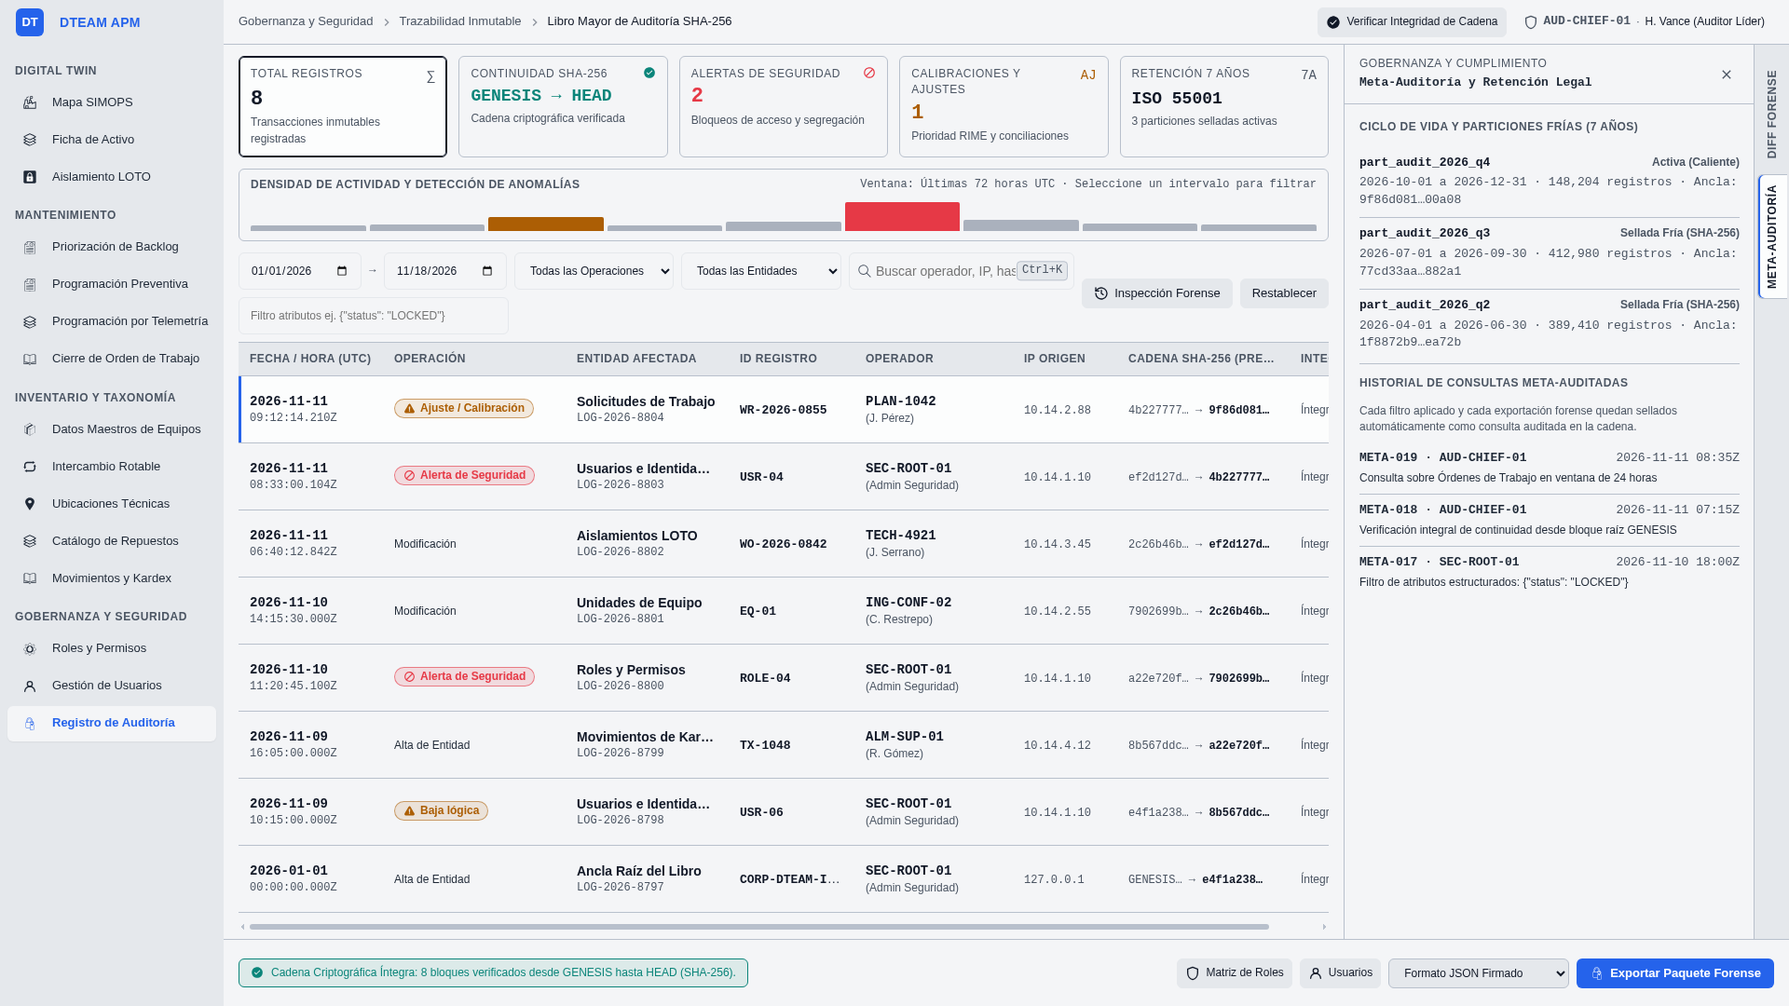
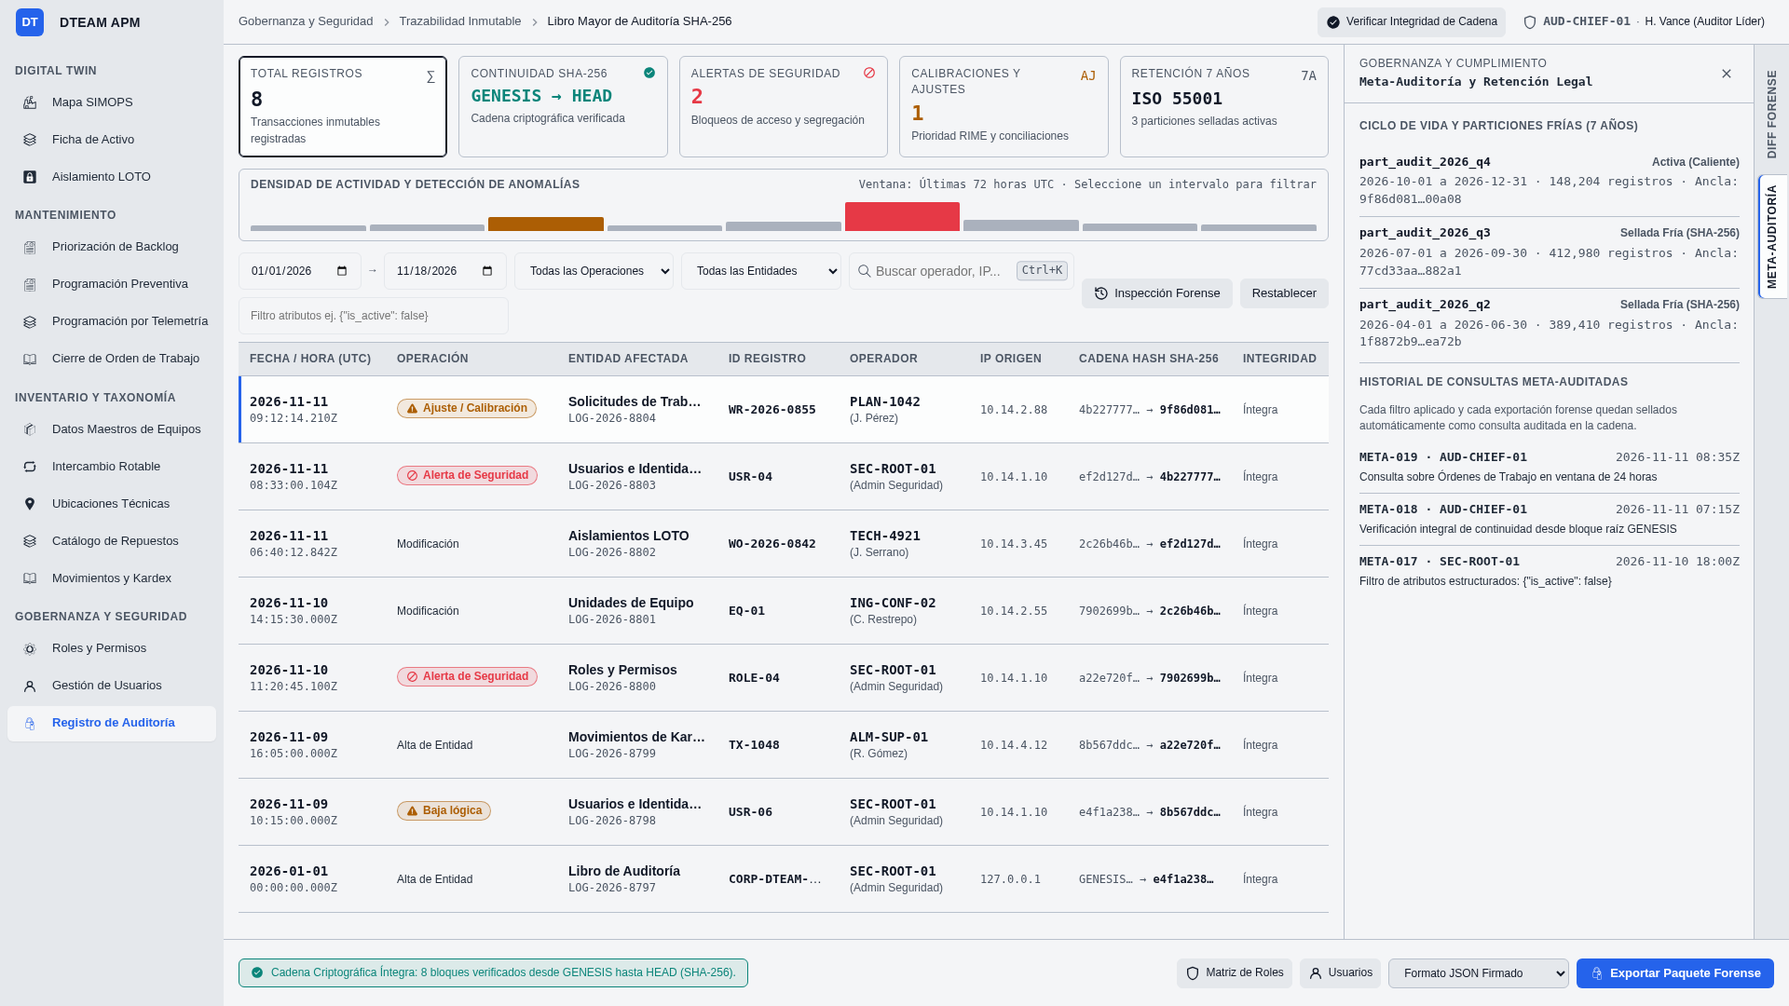
docs(erd,dm,arq): align canonical enum column names and document §3.11 heuristics

diff --git a/scripts/generate_ddl.py b/scripts/generate_ddl.py
@@ -6,9 +6,6 @@ from pathlib import Path
 ROOT = Path(__file__).resolve().parents[1]
 
 ENUM_ALIASES = {
-    "work_requests.work_class": "work_requests.work_class_code",
-    "work_order_assignments.assigned_role": "work_order_assignments.role_in_work",
-    "audit_logs.event_type": "audit_logs.action_type",
     "maintenance_plan_crafts.craft": "maintenance_plans.required_specialty",
 }
 
@@ -18,6 +15,10 @@ EXPLICIT_FK_TARGETS = {
     "subunit_id": "subunits",
     "maintainable_item_id": "maintainable_items",
     "equipment_class_id": "equipment_classes",
+}
+
+PARTITIONED_TABLES = {
+    "adm.audit_logs": "timestamp",
 }
 
 
@@ -224,9 +225,15 @@ def parse_erd(
                     )
 
                 if "UNIQUE" in c["constraints"]:
-                    constraints.append(
-                        f"    CONSTRAINT uq_{raw_table}_{c['field']} UNIQUE ({c['field']})"
-                    )
+                    part_col = PARTITIONED_TABLES.get(table_name)
+                    if part_col and c["field"] != part_col:
+                        constraints.append(
+                            f"    CONSTRAINT uq_{raw_table}_{c['field']} UNIQUE ({c['field']}, {part_col})"
+                        )
+                    else:
+                        constraints.append(
+                            f"    CONSTRAINT uq_{raw_table}_{c['field']} UNIQUE ({c['field']})"
+                        )
 
                 if "CHECK" in c["constraints"]:
                     enum_key_specific = f"{raw_table}.{c['field']}"
@@ -315,7 +322,11 @@ def parse_erd(
             sql += ",\n".join(col_defs)
             if constraints:
                 sql += ",\n\n" + ",\n".join(constraints)
-            sql += "\n);\n\n"
+            part_col = PARTITIONED_TABLES.get(table_name)
+            if part_col:
+                sql += f"\n) PARTITION BY RANGE ({part_col});\n\n"
+            else:
+                sql += "\n);\n\n"
             if include_comments:
                 sql += "\n".join(comments) + "\n\n"
 

diff --git a/domain-models/entity-relationship/DT-ERD-DOC-001.md b/domain-models/entity-relationship/DT-ERD-DOC-001.md
@@ -222,7 +222,7 @@ All tables and columns follow the `snake_case` naming standard. The database is 
 | request_date | TIMESTAMPTZ | NOT NULL | | clock_timestamp() | UTC timeline for audit. |
 | request_source | VARCHAR(80) | NOT NULL | | - | Origin of the request. |
 | status | VARCHAR(20) | NOT NULL | CHECK | - | Request lifecycle status. |
-| work_class | SMALLINT | NOT NULL | CHECK | - | Numeric weight (1..10) of the selected work class for RIME. |
+| work_class_code | SMALLINT | NOT NULL | CHECK | - | Numeric weight (1..10) of the selected work class for RIME (`WorkRequest.workClassCode`, DT-DM-DOC-001 §4.24). |
 
 #### 3.2.8 maintenance_plan_crafts
 
@@ -410,18 +410,18 @@ All tables and columns follow the `snake_case` naming standard. The database is 
 
 | Physical Field | PostgreSQL Type | Nullability | Constraints / Keys | Default Value | Justification |
 | --- | --- | --- | --- | --- | --- |
-| id | UUID | NOT NULL | PK | uuidv7() | Unique identifier of the entity (PK). |
+| id | UUID | NOT NULL | PK | uuidv7() | Unique identifier of the entity (composite PK `(id, timestamp)` for PostgreSQL 18 declarative range partitioning per FR-350). |
 | user_id | UUID | NULL | FK | NULL | Foreign key to the related table. |
-| event_type | VARCHAR(80) | NOT NULL | CHECK | - | Controlled audit operation type (CREATE, UPDATE, DELETE, QUERY, ADJUST, SECURITY_ALERT). |
+| action_type | VARCHAR(80) | NOT NULL | CHECK | - | Controlled audit operation type (`AuditLog.actionType`, DT-DM-DOC-001 §4.36: CREATE, UPDATE, DELETE, QUERY, ADJUST, SECURITY_ALERT). |
 | entity_type | VARCHAR(80) | NOT NULL | | - | Affected table or domain entity. |
 | entity_id | UUID | NOT NULL | | - | Identifier of the affected record. |
-| timestamp | TIMESTAMPTZ | NOT NULL | | clock_timestamp() | Exact UTC moment of the mutation. |
+| timestamp | TIMESTAMPTZ | NOT NULL | PK | clock_timestamp() | Exact UTC moment of the mutation and range-partitioning key (composite PK `(id, timestamp)`, FR-350). |
 | previous_state | JSONB | NULL | | NULL | Pre-mutation entity state snapshot captured via `RETURNING old.*` ([§6.7](#67-admaudit_logsprevious_state-and-new_state), ADR-003). |
 | new_state | JSONB | NULL | | NULL | Post-mutation state snapshot, `QUERY` meta-audit payload, or `SECURITY_ALERT` context including transversal `justification` ([§6.7](#67-admaudit_logsprevious_state-and-new_state), ADR-003). |
 | ip_address | VARCHAR(45) | NULL | | NULL | Network traceability (IPv4 or IPv6). |
 | user_agent | VARCHAR(255) | NULL | | NULL | Client traceability. |
 | previous_hash | VARCHAR(64) | NOT NULL | | - | SHA-256 integrity hash of the preceding audit record (`GENESIS` sentinel on first entry, ADR-003). |
-| integrity_hash | VARCHAR(64) | NOT NULL | UNIQUE | - | SHA-256 cryptographic hash chaining `previous_hash` and current payload (ADR-003). |
+| integrity_hash | VARCHAR(64) | NOT NULL | UNIQUE | - | SHA-256 cryptographic hash chaining `previous_hash` and current payload (ADR-003; composite unique `(integrity_hash, timestamp)` on partitioned table). |
 
 #### 3.5.2 auth_tokens
 
@@ -479,7 +479,7 @@ All tables and columns follow the `snake_case` naming standard. The database is 
 | --- | --- | --- | --- | --- | --- |
 | work_order_id | UUID | NOT NULL | PK, FK | - | Foreign key to the related table. |
 | user_id | UUID | NOT NULL | PK, FK | - | Foreign key to the related table. |
-| assigned_role | VARCHAR(80) | NOT NULL | CHECK | - | Operational role of the technician in the specific WO. |
+| role_in_work | VARCHAR(80) | NOT NULL | CHECK | - | Operational role of the technician in the specific WO (`WorkOrderAssignment.roleInWork`, DT-DM-DOC-001 §4.41). |
 | assigned_at | TIMESTAMPTZ | NOT NULL | | clock_timestamp() | UTC moment of assignment. |
 
 #### 3.5.8 idempotency_logs
@@ -492,6 +492,20 @@ All tables and columns follow the `snake_case` naming standard. The database is 
 | request_hash | VARCHAR(64) | NOT NULL | | - | SHA-256 fingerprint to prevent payload mutation. |
 | status | VARCHAR(20) | NOT NULL | CHECK | - | Controlled state of the transaction (PROCESSING, COMPLETED, FAILED). |
 | created_at | TIMESTAMPTZ | NOT NULL | | clock_timestamp() | UTC partitioning key for MVCC cleanup. |
+
+#### 3.5.9 audit_retention_partitions
+
+| Physical Field | PostgreSQL Type | Nullability | Constraints / Keys | Default Value | Justification |
+| --- | --- | --- | --- | --- | --- |
+| id | UUID | NOT NULL | PK | uuidv7() | Unique identifier of the entity (PK). |
+| partition_name | VARCHAR(80) | NOT NULL | UNIQUE | - | Physical PostgreSQL range partition identifier (e.g., `part_audit_2026_q4`, FR-350). |
+| period_start | DATE | NOT NULL | | - | Inclusive UTC start date of the quarterly retention window (FR-358). |
+| period_end | DATE | NOT NULL | | - | Inclusive UTC end date of the quarterly retention window (FR-358). |
+| record_count | BIGINT | NOT NULL | | 0 | Total immutable audit records sealed inside the retention partition. |
+| partition_anchor_hash | VARCHAR(64) | NOT NULL | | - | Final SHA-256 `integrity_hash` anchoring continuity across archived partition boundaries (ADR-003, FR-350). |
+| is_cold_archived | BOOLEAN | NOT NULL | | FALSE | Flag indicating whether the quarterly partition is sealed in 7-year cold storage (FR-350, FR-358). |
+| integrity_status | VARCHAR(30) | NOT NULL | CHECK | 'VERIFIED_INTACT' | Controlled partition integrity status vocabulary (DT-DM-DOC-001 §4.43). |
+| sealed_at | TIMESTAMPTZ | NULL | | NULL | UTC timestamp when the partition was sealed for cold archival (`NULL` while hot/active). |
 
 ## 4. Referential Relationships and Cascading (FKs)
 

diff --git a/ui-ux/screens/adm/SCR-ADM-032.md b/ui-ux/screens/adm/SCR-ADM-032.md
@@ -90,7 +90,7 @@ status: Stable
    - **Architectural Scope:** Acts as a one-click category filter over the ledger grid and surfaces immediate tamper-evident chain health (`FR-351`, `TR-001-FR-367`). Detailed in §5.1.
 
 4. **`CMP-04`: Multi-Criteria & JSONB Containment Filter Toolbar (`FR-348`)**
-   - **Visual Role:** Flat toolbar hosting UTC `DateFrom` / `DateTo` pickers, `AuditActionType` selector (`CREATE`, `UPDATE`, `DELETE`, `QUERY`, `ADJUST`, `SECURITY_ALERT`), `EntityType` selector (`WorkRequest`, `WorkOrder`, `WorkOrderIsolation`, `EquipmentUnit`, `Role`, `User`, `InventoryTransaction`, `GenesisLedgerAnchor`), debounced search input across `Operator`, `IpAddress`, `EntityId`, and `IntegrityHash` (`Ctrl+K`), structured `JSONB` key-value containment query input (`{"status": "LOCKED"}`), `[Forensic Inspection]` dock toggle, and `[Reset]` action.
+   - **Visual Role:** Flat toolbar hosting UTC `DateFrom` / `DateTo` pickers, `AuditActionType` selector (`CREATE`, `UPDATE`, `DELETE`, `QUERY`, `ADJUST`, `SECURITY_ALERT`), `EntityType` selector (`WorkRequest`, `WorkOrder`, `WorkOrderIsolation`, `EquipmentUnit`, `Role`, `User`, `InventoryTransaction`, `AuditLog`), debounced search input across `Operator`, `IpAddress`, `EntityId`, and `IntegrityHash` (`Ctrl+K`), structured `JSONB` key-value containment query input (`{"is_active": false}`), `[Forensic Inspection]` dock toggle, and `[Reset]` action.
    - **Design Tokens:**
      - Surface: `--dt-color-surface-base`
      - Controls: `--dt-color-surface-card`
@@ -151,10 +151,10 @@ status: Stable
    - **Architectural Scope:** Visualizes `AuditLog.VerifyIntegrity()` ([DT-DM-DOC-002 §6.3](../../../domain-models/class/DT-DM-DOC-002.md#63-auditlog-entity)). Detailed in §5.3.2.
 
 10. **`CMP-10`: Tamper-Evident Chain Breach Alert Modal (`AF-001` / `FR-346` / `FR-351`)**
-    - **Visual Role:** Centered high-salience security alert modal deployed automatically if `VerifyIntegrity()` detects a hash mismatch or missing chronological link (`AF-001`), presenting flat hairline-divided stored vs. recalculated SHA-256 digests and immediate export quarantine protocol.
+    - **Visual Role:** Centered ISA-101 restrained security alert modal deployed automatically if `VerifyIntegrity()` detects a hash mismatch or missing chronological link (`AF-001`), keeping a neutral modal frame paired with a critical left-accent forensic callout, flat hairline-divided registered vs. recalculated SHA-256 digests, and immediate export quarantine protocol.
     - **Design Tokens:**
-      - Surface: `--dt-color-surface-card`
-      - Header & Border: `--dt-color-alarm-critical`
+      - Surface & Neutral Frame: `--dt-color-surface-card`, `--dt-color-border-subtle`
+      - Callout Left Accent & Mismatch Value: `--dt-color-alarm-critical`
       - Hash Compare Divider: `--dt-color-border-subtle`
       - Radius: `--dt-radius-xl`
       - Elevation: `--dt-z-modal-fail-safe`
@@ -240,7 +240,7 @@ sequenceDiagram
     UI->>API: GET /api/v1/security/audit-logs (Default window; records QUERY Meta-Audit)
     API-->>UI: Returns AuditLogWorkspaceDto (Metrics, TrendBuckets, Entries, Partitions)
     UI-->>Aud: Renders KPI Strip (CMP-03), Trend Strip (CMP-05) & Ledger Grid (CMP-06)
-    Aud->>UI: Enters JSONB containment filter '{"status": "LOCKED"}' & EntityType="WorkOrder"
+    Aud->>UI: Enters JSONB containment filter '{"is_active": false}' & EntityType="WorkOrder"
     UI->>API: POST /api/v1/security/audit-logs/query (GIN @> query & appends QUERY Meta-Audit)
     API-->>UI: Returns matching AuditLogEntryDto list
     Aud->>UI: Selects event row in CMP-06 (Opens CMP-12 Dock)
@@ -287,7 +287,7 @@ sequenceDiagram
 
 #### 5.3.3. Self-Referential Meta-Auditing & 7-Year Regulatory Retention (`FR-350`, `FR-353`, `FR-358`, `NFR-359`, `NFR-360`)
 1. **Meta-Audit Logging (`NFR-360`, `TR-001-FR-361`):** Every query executed in `CMP-04` and every forensic export triggered in `CMP-13` automatically appends an `AuditActionType.QUERY` record to the immutable `AuditLog` ledger capturing Auditor identity, network metadata, and query parameters under the Meta-Audit profile defined in [DT-ERD-DOC-001 §6.7](../../../domain-models/entity-relationship/DT-ERD-DOC-001.md#67-admaudit_logsprevious_state-and-new_state).
-2. **7-Year Retention & Cold-Archive Lifecycle (`FR-350`, `FR-358`, `TR-001-FR-367`):** `CMP-11` displays the status of time-partitioned audit segments retained for a minimum of **7 years** (ISO 55001 Clause 7.5), verifying anchor hashes of cold-archived partitions so chain continuity remains unbroken across archived boundaries.
+2. **7-Year Retention & Cold-Archive Lifecycle (`FR-350`, `FR-358`, `TR-001-FR-367`):** `CMP-11` projects quarterly retention segments from `AuditRetentionPartition` persistence metadata ([DT-ERD-DOC-001 §3.5.9](../../../domain-models/entity-relationship/DT-ERD-DOC-001.md#359-audit_retention_partitions), [DT-ARQ-DB-DOC-001 §3.11](../../../architecture/DT-ARQ-DB-DOC-001.md#311-7-year-declarative-range-partitioning-and-cold-archive-anchoring-adm-032-fr-350-fr-358)) retained for a minimum of **7 years** (ISO 55001 Clause 7.5), verifying partition anchor hashes (`PartitionAnchorHash`) across cold-archived segments so chain continuity remains unbroken across archived boundaries.
 3. **Portable Forensic Extraction (`FR-353`, `NFR-359`):** Clicking `[Export Forensic Package]` in `CMP-13` generates a self-contained `AuditExportFormat` bundle (`SIGNED_FORENSIC_JSON` or `SIGNED_FORENSIC_CSV`) accompanied by a detached SHA-256 manifest so external auditors can independently verify chain continuity offline (`NFR-359`).
 
 ---

diff --git a/domain-models/class/DT-DM-DOC-001.md b/domain-models/class/DT-DM-DOC-001.md
@@ -59,7 +59,7 @@ To reflect the Modular Monolith architecture in the persistence layer and avoid 
 - `mtto`: Maintenance and reliability management (`work_requests`, `work_orders`, `work_order_histories`, `maintenance_plans`, `maintenance_plan_crafts`, `failure_records`, `media_attachments`, `backlog_items`).
 - `inv`: Resource and supply control (`spare_parts`, `inventory_transactions`, `material_requirements`, `warehouses`, `locators`, `suppliers`).
 - `vis`: Digital twin and operational safety layers (`mesh_mappings`, `spatial_metadata`, `visual_layers`, `telemetry_signals`, `work_permits`, `isolation_points`, `work_order_isolations`).
-- `adm`: Perimeter security, IAM, and immutable audit (`users`, `roles`, `user_roles`, `role_permissions`, `auth_tokens`, `work_order_assignments`, `audit_logs`, `idempotency_logs`).
+- `adm`: Perimeter security, IAM, and immutable audit (`users`, `roles`, `user_roles`, `role_permissions`, `auth_tokens`, `work_order_assignments`, `audit_logs`, `audit_retention_partitions`, `idempotency_logs`).
 
 This segregation allows for:
 1. **Defense in Depth:** Granular assignment of SQL privileges (GRANT/REVOKE) per module to prevent unauthorized cross-access.
@@ -102,6 +102,7 @@ This segregation allows for:
 | AuthToken | Entity | Has a lifecycle of issuance, usage, and expiration, and must remain traceable back to its owner. | ISO 9000 traceability |
 | WorkOrderAssignment | Entity | Auditable relationship between a user/role and a work order. | ISO 55000 competence control |
 | AuditLog | Entity | Append-only audit record containing the before/after state and chained SHA-256 hashes. | ISO 9000 audit evidence and record immutability |
+| AuditRetentionPartition | Entity | Governs the 7-year quarterly audit partition lifecycle, cold-archive sealing, and cryptographic anchor hash continuity (`FR-350`, `FR-358`). | ISO 55001 Clause 7.5; ISO 27001 A.8.10 |
 | IdempotencyLog | Entity | Deduplication ledger preventing duplicate execution of retransmitted offline or API commands (`ADR-007`). | Distributed Systems Idempotency |
 | MaterialRequirement | Entity | Represents future planning and consumption reservation of a spare part for a specific work order. | ISO 55000 resource planning |
 
@@ -551,6 +552,14 @@ This segregation allows for:
 | APPROVE | Grants supervisory authority to authorize permits, closures, or high-risk actions. | RBAC Granular Authorization (`FR-248`) |
 | AUDIT | Grants compliance and forensic inspection rights over module trails. | RBAC Granular Authorization (`FR-248`) |
 | EXECUTE | Grants field execution authority (e.g., LOTO isolations, work order completion). | RBAC Granular Authorization (`FR-248`) |
+
+#### 4.43 AuditRetentionPartition.integrityStatus
+
+| Value | Meaning | Reference Norm / Concept |
+| --- | --- | --- |
+| VERIFIED_INTACT | Partition anchor hash matches the final sealed audit record within the retention window. | ISO 27001 A.8.16 / ADR-003 (`FR-350`) |
+| VERIFYING_IN_PROGRESS | Asynchronous cryptographic anchor verification is executing on the partition segment. | Forensic Integrity Check (`FR-351`) |
+| TAMPER_BREACH_DETECTED | Cryptographic anchor mismatch or missing chained link detected within the partition window. | Tamper Quarantine (`TR-003-NFR-377`) |
 
 ## 5. Physical Mapping and Data Dictionary
 

diff --git a/architecture/DT-ARQ-DB-DOC-001.md b/architecture/DT-ARQ-DB-DOC-001.md
@@ -90,3 +90,7 @@ When an Application Command must mutate state across multiple schemas atomically
 
 ### 3.10. In-Process Domain Event Dispatch Semantics (`IEventBus`)
 Domain events published via `IEventBus` (`WorkOrderStatusChanged`, `AssetSwapCompletedEvent`, `EquipmentDecommissioned`) execute **in-process and pre-commit** within the active shared `DbTransaction` whenever the subscriber enforces a synchronous domain invariant (such as deducting reserved stock in `inv` upon Work Order technical closure in `mtto`). Side-effect handlers that communicate with external I/O (such as `INotificationPort` SignalR broadcasts) are dispatched **post-commit** only after `dbTransaction.CommitAsync()` succeeds.
+
+### 3.11. 7-Year Declarative Range Partitioning and Cold-Archive Anchoring ([ADM-032](../requirements/user-stories/adm/ADM-032.md), [FR-350](../requirements/user-stories/adm/ADM-032.md#functional-requirements-fr), [FR-358](../requirements/user-stories/adm/ADM-032.md#functional-requirements-fr))
+To sustain sub-second forensic queries (`NFR-355`) and enforce the mandatory 7-year regulatory retention window (`TR-001-FR-367`, ISO 55001 Clause 7.5), `adm.audit_logs` is partitioned declaratively in PostgreSQL 18 by quarterly UTC ranges (`PARTITION BY RANGE (timestamp)`), enforcing composite uniqueness `(id, timestamp)` and `(integrity_hash, timestamp)` across all child partitions. The baseline physical layout provisions quarterly range partitions (`adm.part_audit_2026_q2`, `adm.part_audit_2026_q3`, `adm.part_audit_2026_q4`) together with a mandatory catch-all default partition (`adm.part_audit_default`, `PARTITION OF adm.audit_logs DEFAULT`) so `INSERT` transactions never fail if an event lands outside pre-provisioned boundaries prior to next-quarter rotation. As quarterly windows age out of the active hot tier, background archival seals the segment into encrypted cold WORM storage (`TR-002`) and records the segment's boundary metadata (`partition_name`, `period_start`, `period_end`, `record_count`, `partition_anchor_hash`, `is_cold_archived`, `integrity_status`, `sealed_at`) in `adm.audit_retention_partitions`—indexed via the descending composite B-Tree index `idx_audit_retention_partitions_period (period_start DESC, period_end DESC)` for sub-millisecond active/sealed window resolution—preserving unbroken SHA-256 chain verification (`ADR-003`) across hot and cold partitions.
+

diff --git a/domain-models/class/DT-DM-DOC-002.md b/domain-models/class/DT-DM-DOC-002.md
@@ -215,6 +215,13 @@ Additionally, the document justifies the existence of each method under the prin
 | `Revoke(): void` | Forcibly invalidates the token before its natural expiration. | [ADM-014](../../requirements/user-stories/adm/ADM-014.md)<br>FR-262<br>[TR-006](../../requirements/common/TR-006.md)<br>NFR-394, NFR-395 | **Access Control:** Fundamental for instantly killing active sessions when an account is suspended due to security risk. |
 | `MarkAsUsed(): void` | Invalidates the token by marking it as used. | [ADM-014](../../requirements/user-stories/adm/ADM-014.md)<br>FR-261<br>[TR-006](../../requirements/common/TR-006.md)<br>NFR-394 | **Single-Use Rule:** Prevents replay attacks on sensitive tokens such as password reset links or onboarding invitations. |
 
+### 6.5. `AuditRetentionPartition` (`<<Entity>>`)
+
+| Method | Purpose / Business Rule | Origin (Story / FR) | Architectural Justification (DDD) |
+| :--- | :--- | :--- | :--- |
+| `SealColdArchive(anchorHash: String, sealedRecordCount: long): void` | Transitions `IsColdArchived` to `true`, locks `RecordCount` and `PartitionAnchorHash` (final SHA-256 `IntegrityHash` of the closed quarterly window), and stamps `SealedAt` in UTC. | [ADM-032](../../requirements/user-stories/adm/ADM-032.md)<br>FR-350, FR-358<br>[TR-001](../../requirements/common/TR-001.md)<br>TR-001-FR-367 | **7-Year Retention Lifecycle:** Preserves unbroken cryptographic continuity (`ADR-003`) across quarterly hot-to-cold archival boundaries per ISO 55001 Clause 7.5. |
+| `VerifyPartitionAnchor(recalculatedAnchorHash: String): boolean` | Compares the stored `PartitionAnchorHash` against the recalculated digest at the partition boundary and updates `IntegrityStatus` (`VERIFIED_INTACT` or `TAMPER_BREACH_DETECTED`). | [ADM-032](../../requirements/user-stories/adm/ADM-032.md)<br>FR-350, FR-351<br>[TR-003](../../requirements/common/TR-003.md) | **Tamper-Evident Continuity:** Detects unauthorized manipulation or deletion of archived segments across multi-year retention windows. |
+
 ---
 
 ## **Architectural Notes**

diff --git a/domain-models/ubiquitous-language/DT-UL-DOC-001.md b/domain-models/ubiquitous-language/DT-UL-DOC-001.md
@@ -2,7 +2,7 @@
 
 | Document ID | DT-UL-DOC-001 |
 | ----------- | ------------- |
-| Version     | 1.2.0         |
+| Version     | 1.2.1         |
 | Status      | APPROVED      |
 | Scope       | Domain-Driven Design |
 
@@ -69,6 +69,7 @@ All actors, entities, processes, and states must adhere strictly to these defini
 | **Tamper-Evident**        | A cryptographic property of the audit log that ensures any external modification or deletion of records instantly breaks the hash chain, raising a critical alert. |
 | **Root Cause Analysis (RCA)** | A systematic engineering process for identifying the fundamental origin of a failure to prevent its recurrence. |
 | **Meta-Audit**            | The action of recording and tracing the queries made by administrators or auditors over the immutable audit log itself. |
+| **Audit Retention Partition** | Quarterly PostgreSQL range partition metadata and cold-archive cryptographic anchor record guaranteeing 7-year audit log retention and cross-boundary SHA-256 continuity (FR-350, FR-358). |
 | **Offline Lease**         | A bounded temporary authorization token signed via HMAC-SHA256, issued to a mobile device to perform safety-critical operations (like LOTO) offline within a safe time window. |
 | **Command-Sourced Synchronization** | Architectural pattern where mobile clients synchronize atomic operational commands to a local queue (`SyncOutbox`) instead of final mutated states. |
 | **Cryptographic Manual Override** | An exception for areas without network coverage, allowing technicians to manually bypass digital safety blocks after physical verification. |
